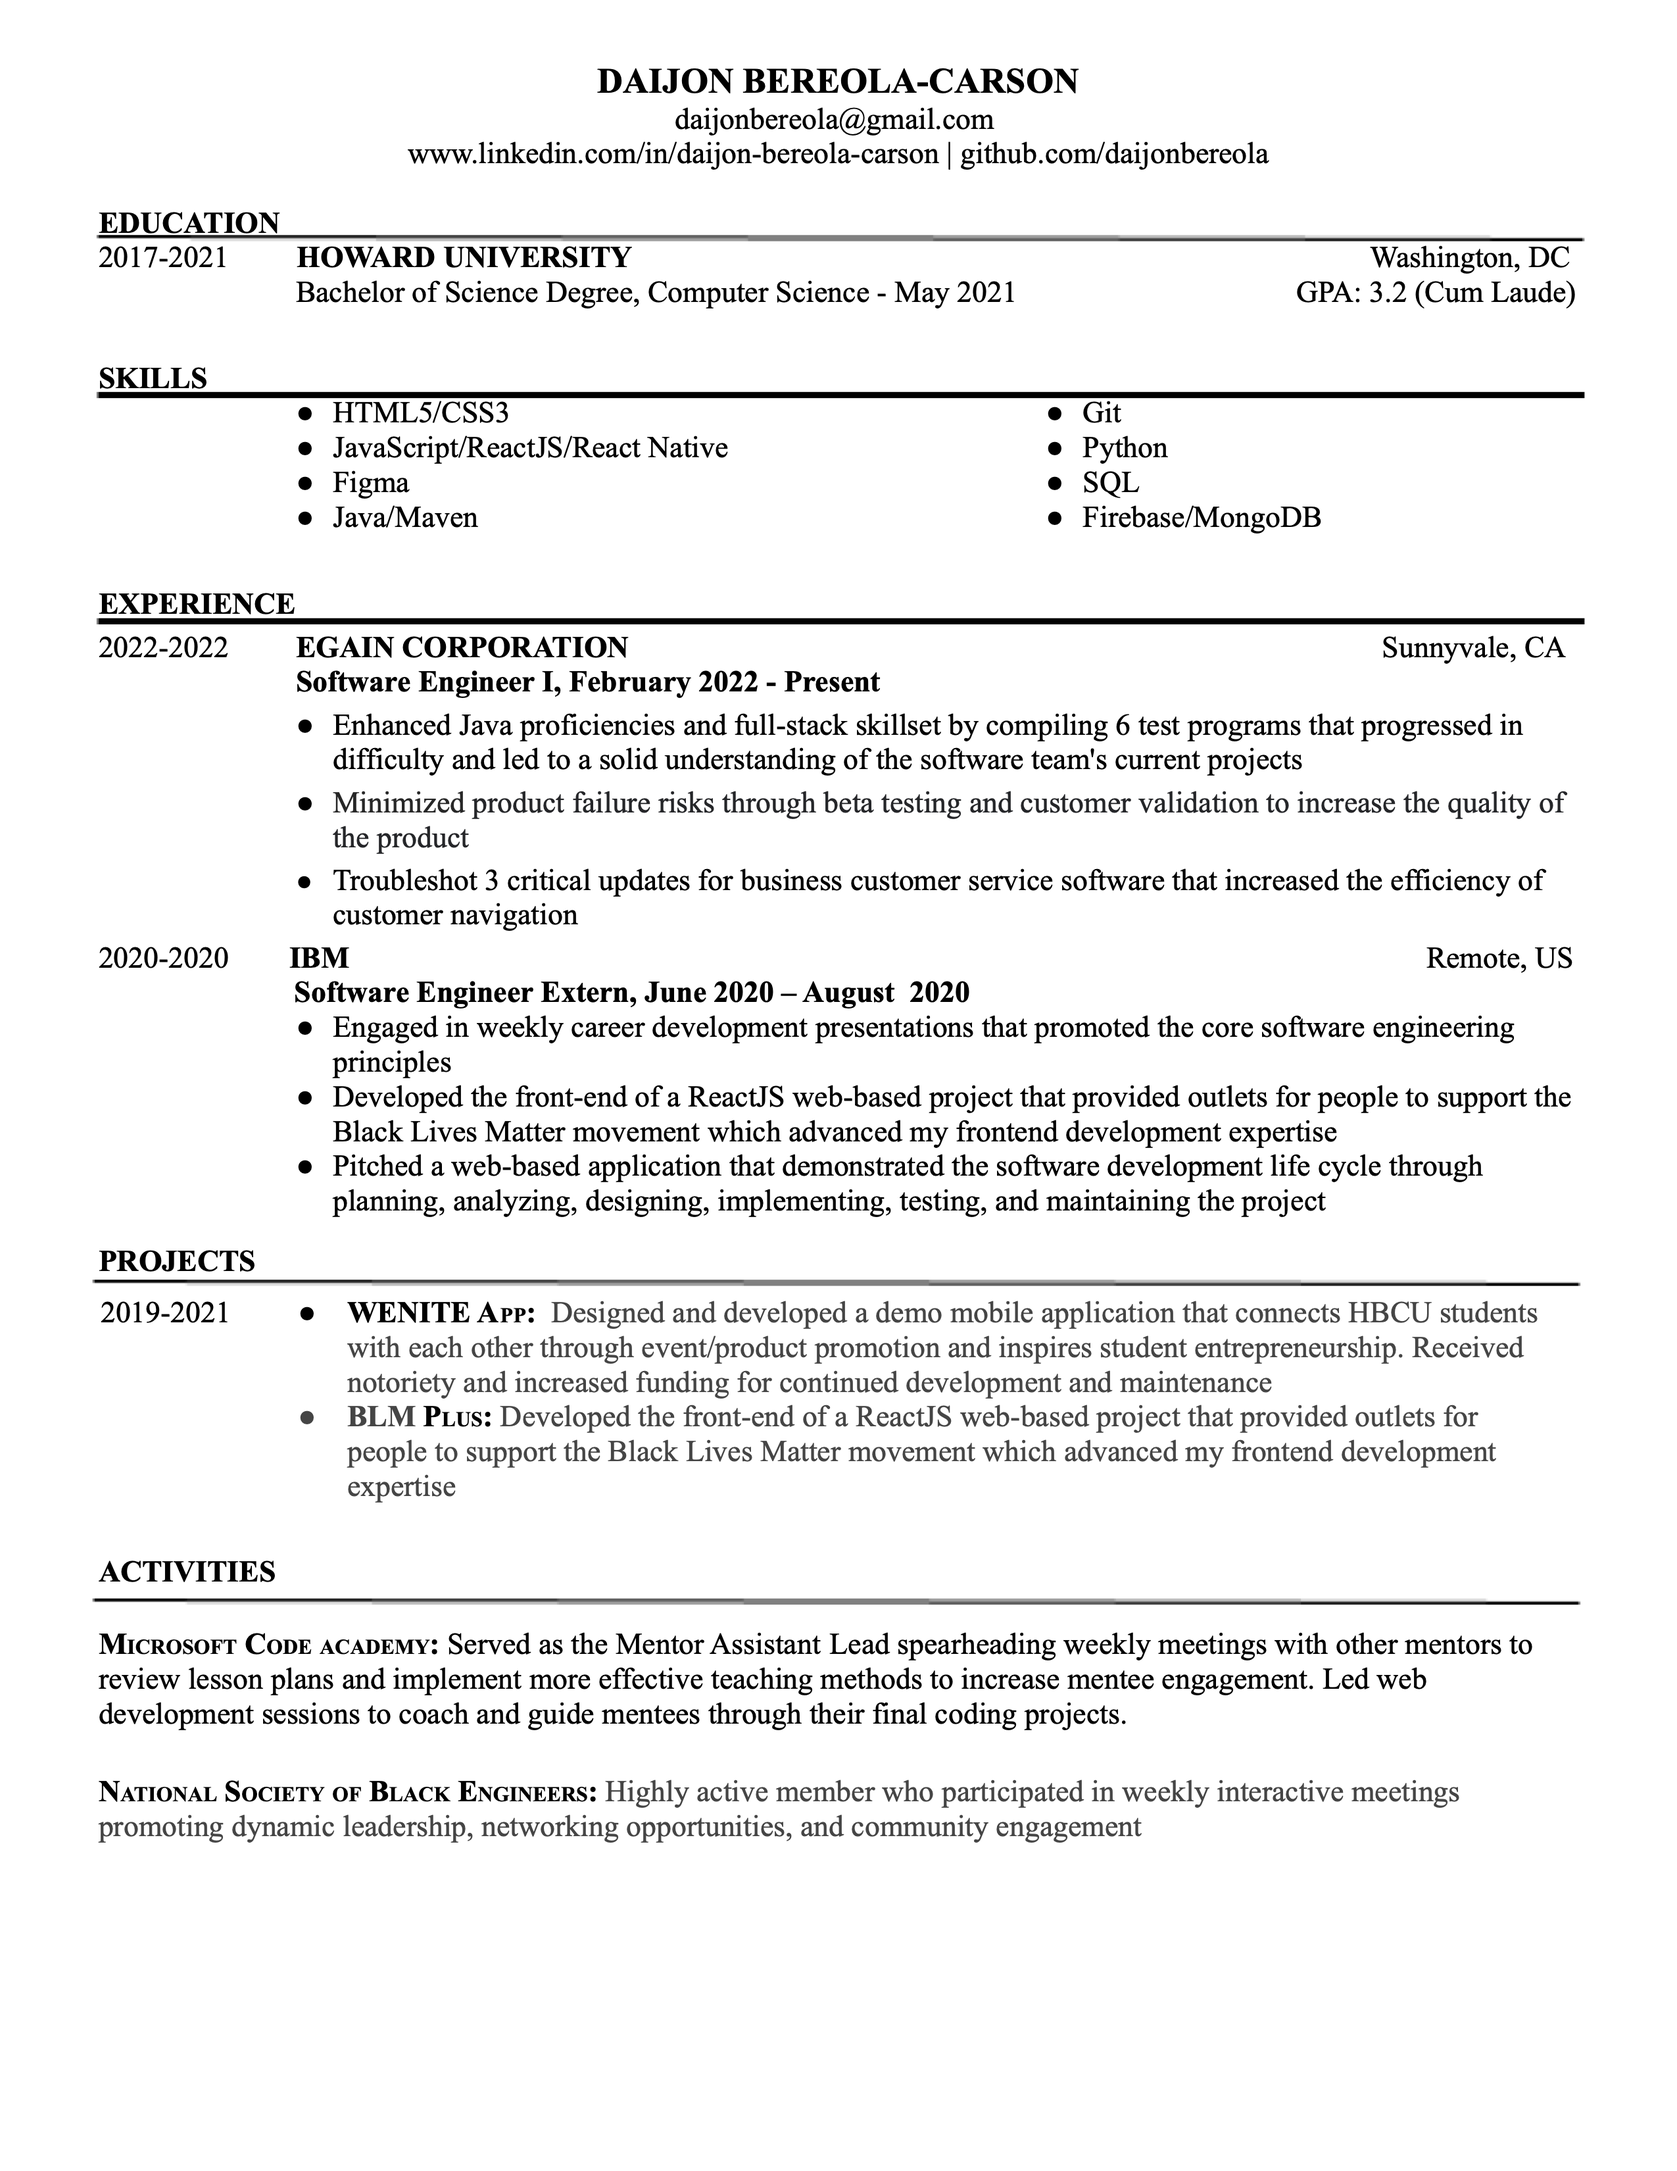
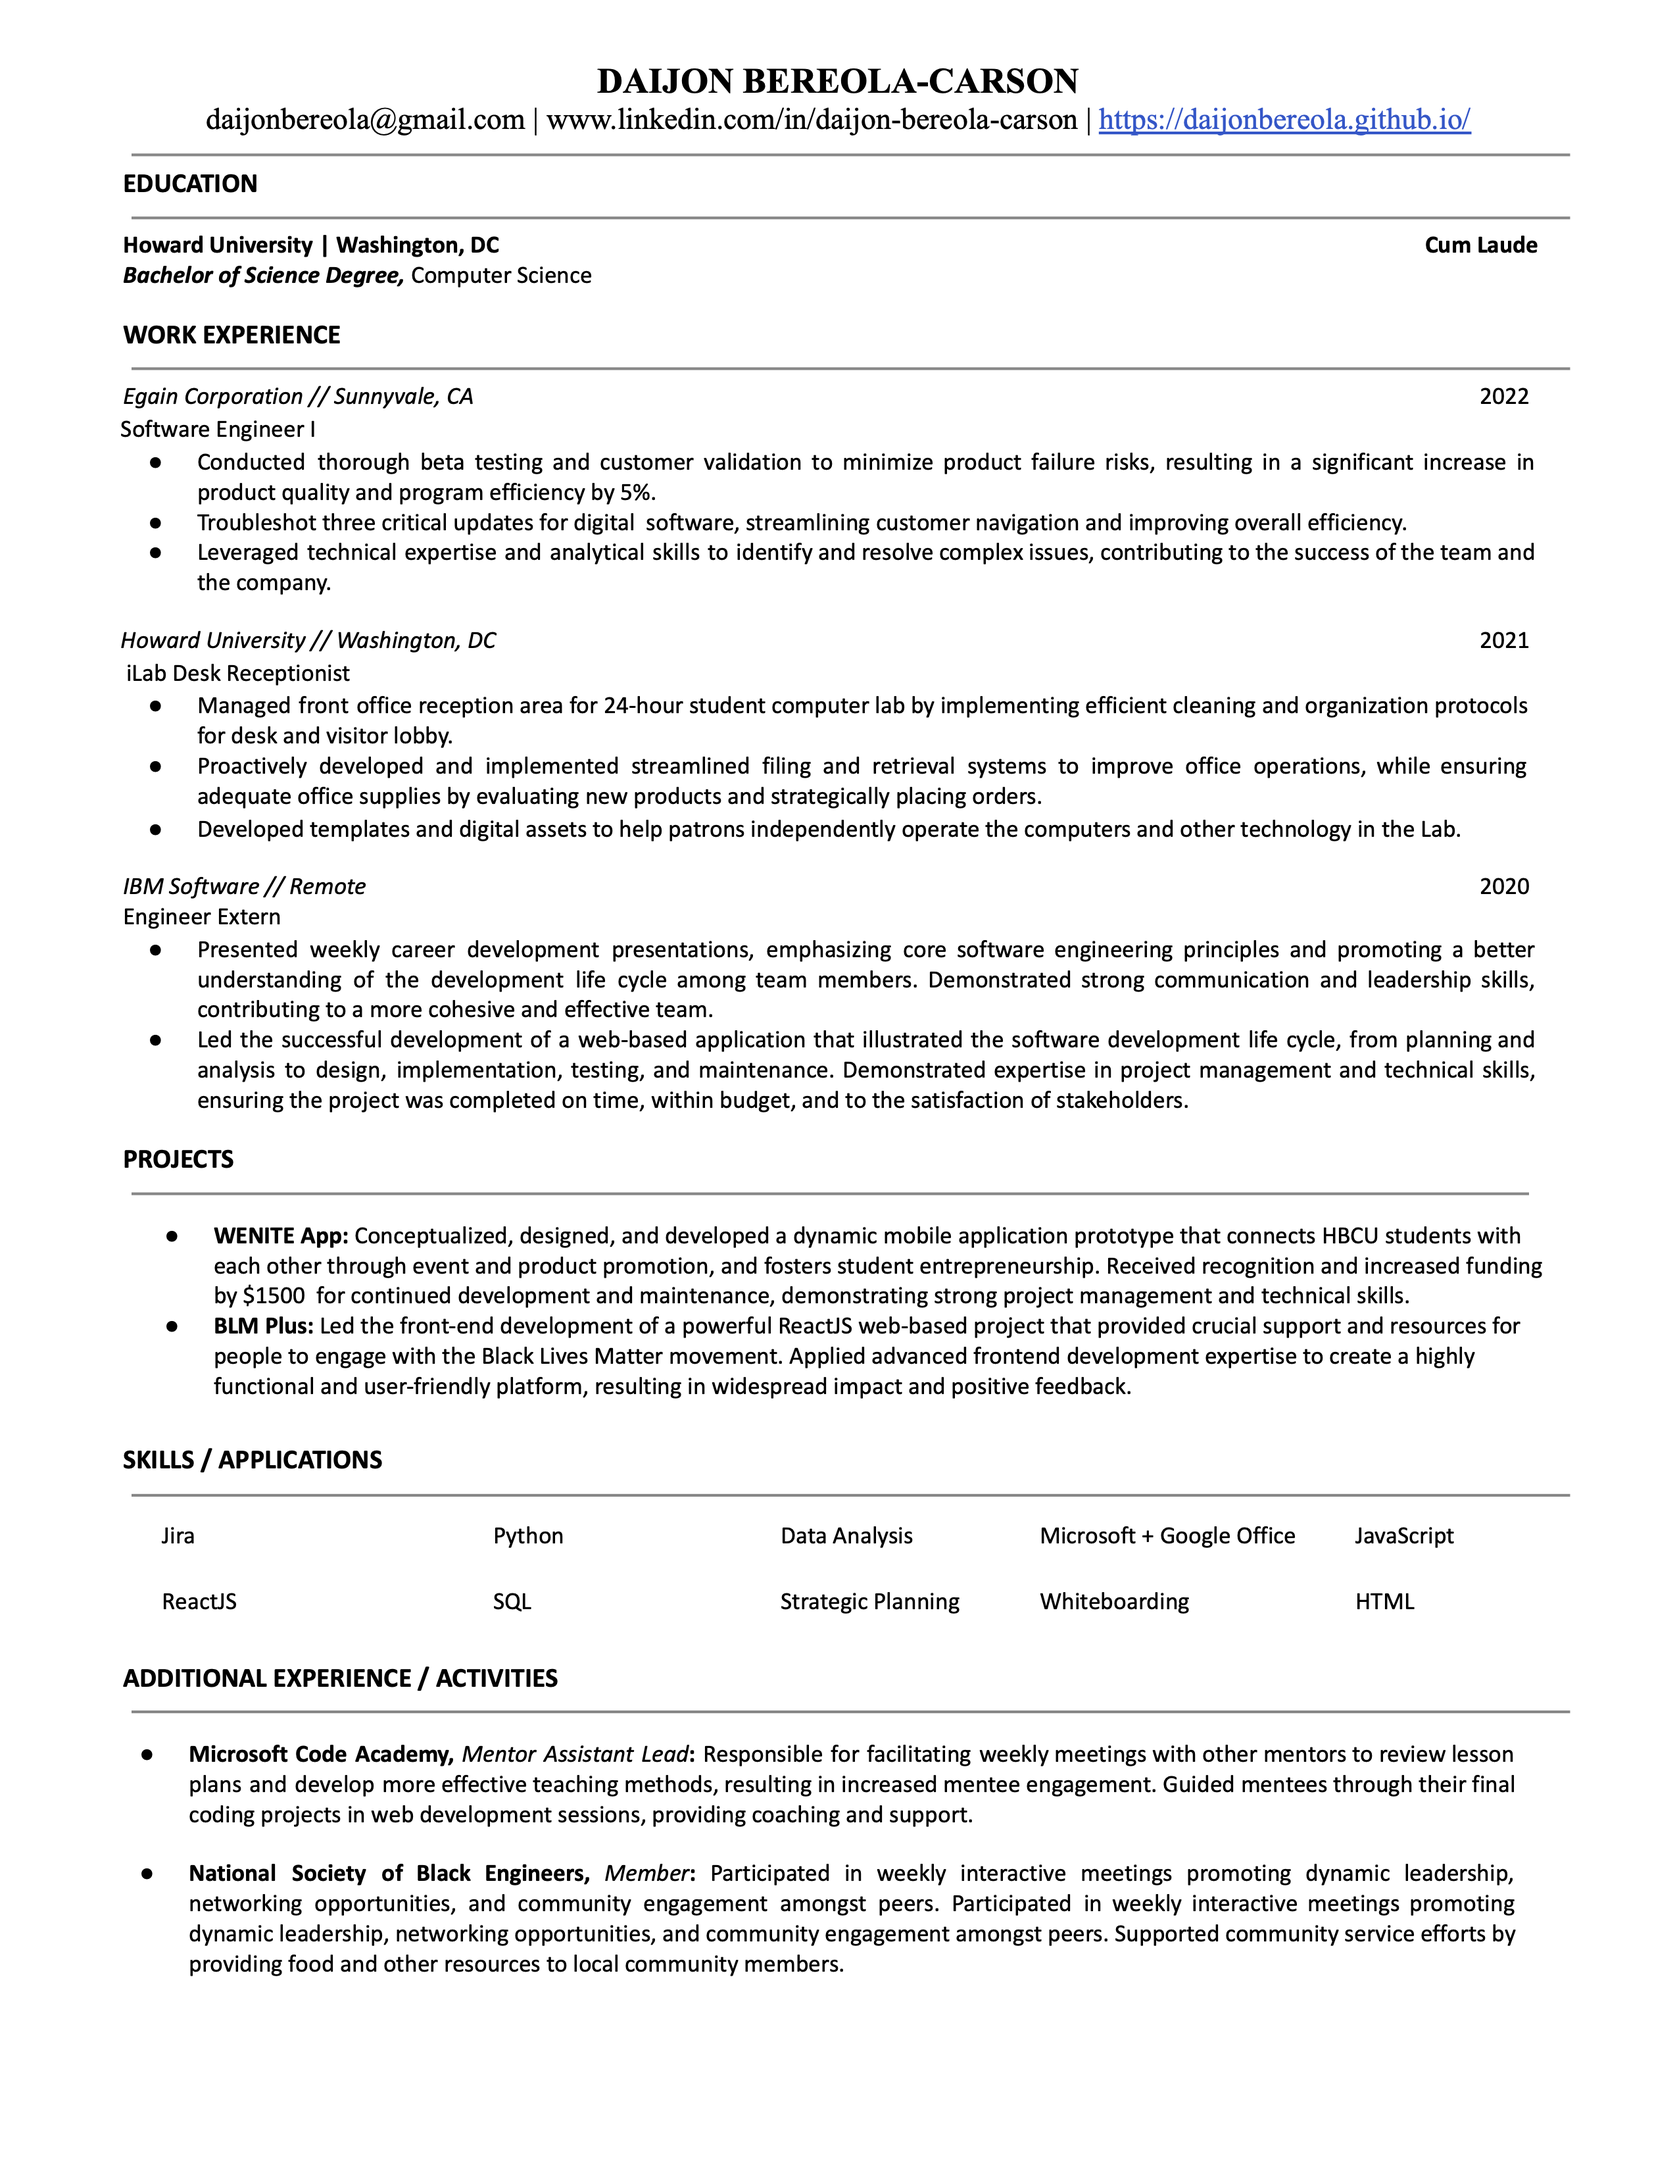
Portfolio update, new profile picture, new resume

Changed region(s): [[0.062, 0.0312, 0.9294, 0.9052]]

diff --git a/src/info/Info.js b/src/info/Info.js
@@ -7,7 +7,6 @@ import mock4 from "../img/mock4.png"
 import mock5 from "../img/mock5.png"
 */
 import resume1 from "../img/resume1.png"
-import resume2 from "../img/resume2.png"
 
 /* Hi there! Thanks for checking out my portfolio template. Be sure to read the comments to get a better understanding of
 how to make this template work best for you! */
@@ -118,14 +117,9 @@ export const info = {
     ],
     resume:[
         {
-            title: "2022-2023 Resume",
-            link: "https://drive.google.com/file/d/11VujN5udVmPXohPVgpzVodcemZZ6POAh/view",
+            title: "2023 Resume",
+            link: "https://docs.google.com/document/d/1boLk35uLE5JU-QR14fr20dzKmlrzSXdgiQBqxvxru0w/edit?usp=sharing",
             image: resume1
-        },
-        {
-            title: "2022-2023 Decorated Resume",
-            link: "https://drive.google.com/file/d/1iCc1zOBtPtBssUMhyvWtwbA_uS3EPUsw/view?usp=sharing",
-            image: resume2
         }
     ]
 }

diff --git a/src/components/resume/ResumeBlock.js b/src/components/resume/ResumeBlock.js
@@ -11,7 +11,7 @@ function ResumeBlock(props) {
          <Box className={'resume'} display={'flex'} flexDirection={'column'} gap={'0.5rem'}
               alignItems={'center'} fontSize={'1.5rem'} py={'2rem'}>
             <Box p={1} border={'2px solid black'} borderRadius={'25px'}>
-               <IconLink link={link} title={'PDF Link'} icon={'fa fa-file-text'}/>
+               <IconLink link={link} title={'Doc Link'} icon={'fa fa-file-text'}/>
             </Box>
          </Box>
       </Box>
